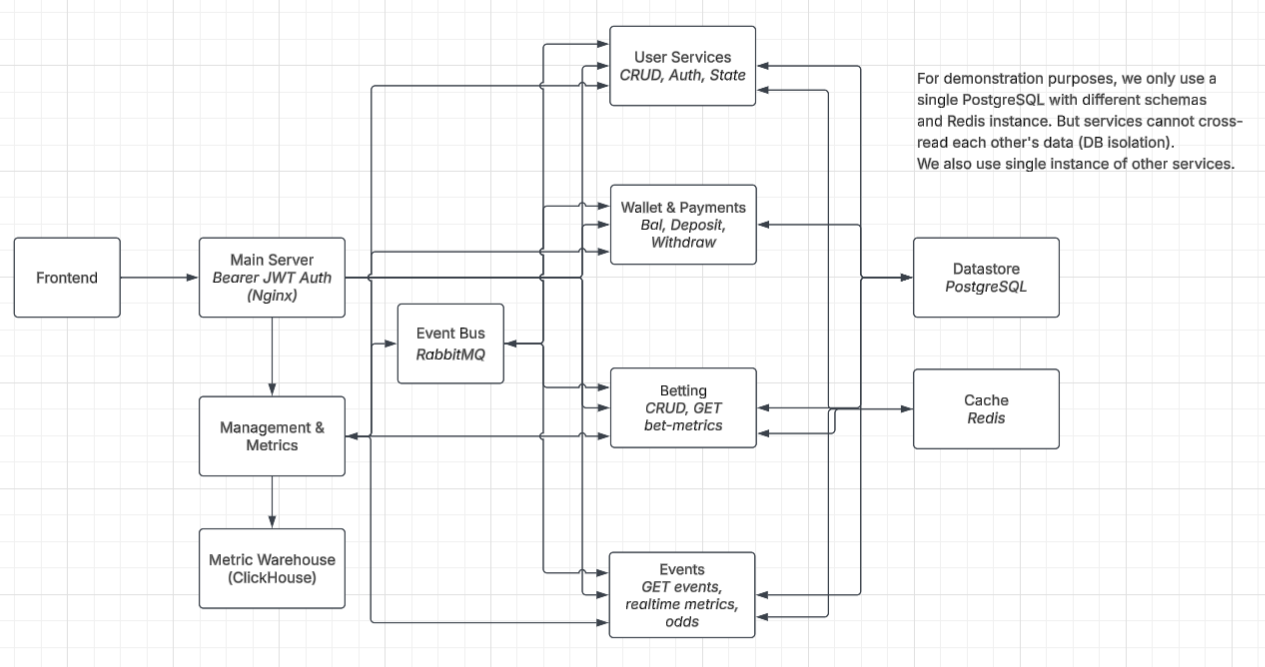
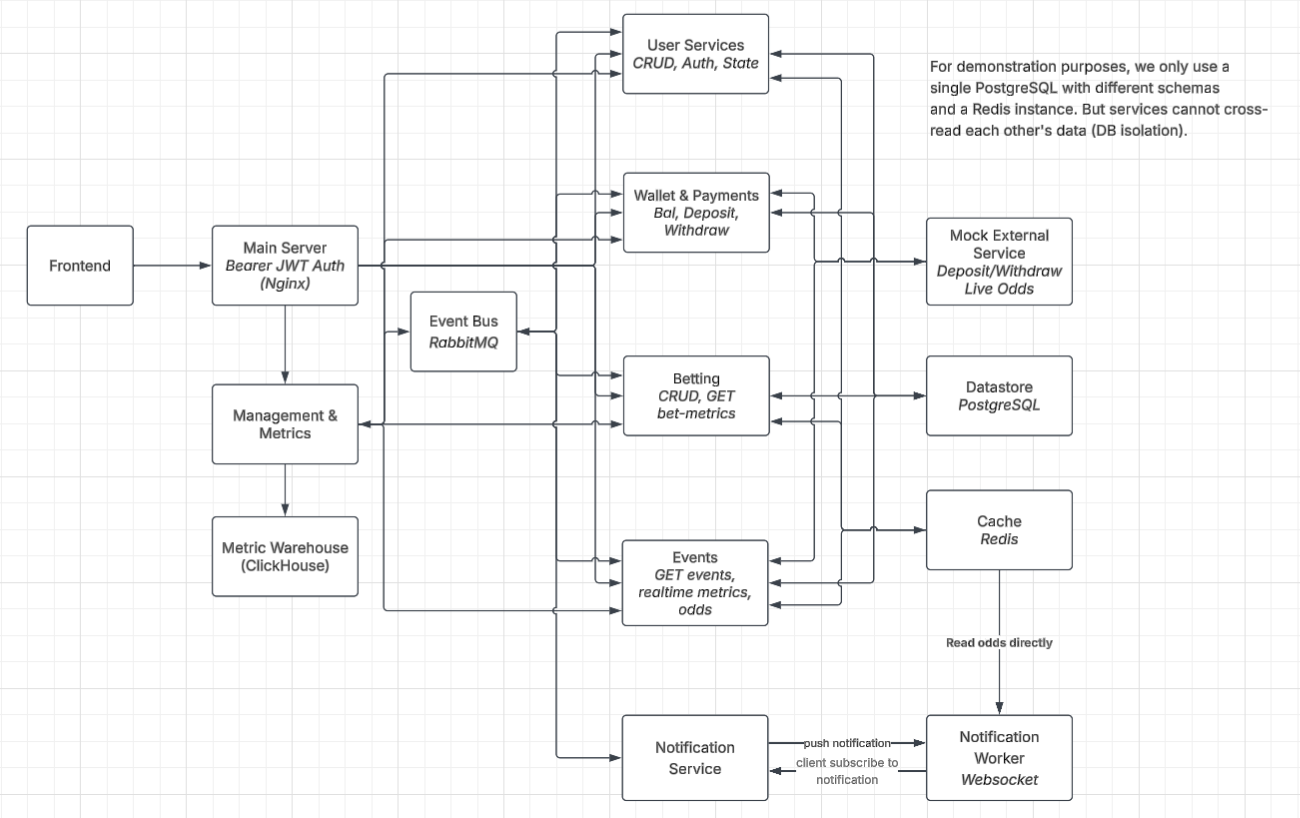
spec: Update architecture

diff --git a/specs.md b/specs.md
@@ -22,6 +22,10 @@ flowchart LR
     API --> EV[Events<br>GET events, realtime metrics, odds]
     API --> MM[Management & Metrics]
 
+    %% External Services
+    WP <--> PG[Payment Gateway<br>Withdraw/Deposit]
+    EV <--> OS[Odds Supplier<br>Odds feed]
+
     %% Async Message Bus Connections
     EB[Event Bus<br>RabbitMQ]
     EB <--> US
@@ -37,6 +41,12 @@ flowchart LR
     DB[(Datastore<br>PostgreSQL)]
     CACHE[(Cache<br>Redis)]
 
+    %% Notification Service
+    EB <--> NS[Notification Service]
+    NS -->|publish notification| NWWS[Notification Worker (websocket)]
+    NS <--|client subsribe to notification, e.g. specific odds| NWWS
+    CACHE -->|direct odds read from Redis| NWWS
+
     US <--> DB
     WP <--> DB
     BET <--> DB
@@ -47,11 +57,7 @@ flowchart LR
     EV <--> CACHE
 ```
 
-For demonstration purposes, we only use a
-single PostgreSQL with different schemas
-and Redis instance. But services cannot cross-
-read each other's data (DB isolation).
-We also use single instance of other services.
+For demonstration purposes, we only use a single PostgreSQL with different schemas and a Redis instance. But services cannot cross-read each other's data (DB isolation).
 
 ---
 
@@ -69,6 +75,8 @@ Every service is implemented as an independent Rust binary utilizing the high-pe
 - **Wallet & Payments:** Coordinates the strict financial ledger. Responsible for balancing deposits, withdrawals, and locking funds. It interacts solely with the database layer using explicit **pessimistic database locks** to prevent race conditions or double-spending (ACID compliance).
 - **Betting Service:** Orchestrates the lifecycle of a bet (Pending $\rightarrow$ Confirmed $\rightarrow$ Settled). It acts as a Saga coordinator or workflow controller using event state flags.
 - **Events Service:** Exposes fast read-only APIs for match data and current odds. It processes inbound mock odds feeds and constantly pushes updates out via WebSockets.
+- **Notification Service:** Communication with user frontend via WebSocket: user subscribe to events, worker push notifications.
+- **Management & Metrics:** Exposes APIs for management and metrics.
 
 ### 2.3 Event Bus & Messaging Layer
 
@@ -86,6 +94,11 @@ Every service is implemented as an independent Rust binary utilizing the high-pe
 - **The Concept:** For a high-throughput betting site, a common production trick is to configure Nginx (often using OpenResty or Kong) to read directly from Redis for public, unauthenticated routes.
 
 - **The Result:** When 10,000 users refresh the odds page, the request never even touches your Rust Events service. Nginx serves the JSON straight from Redis memory.
+
+### 2.6 Mock External Service
+
+- Payment Gateway: Withdraw/Deposit. Mock with delays and random failures. (use their own portal and callback url)
+- Odds Supplier
 
 ---
 
